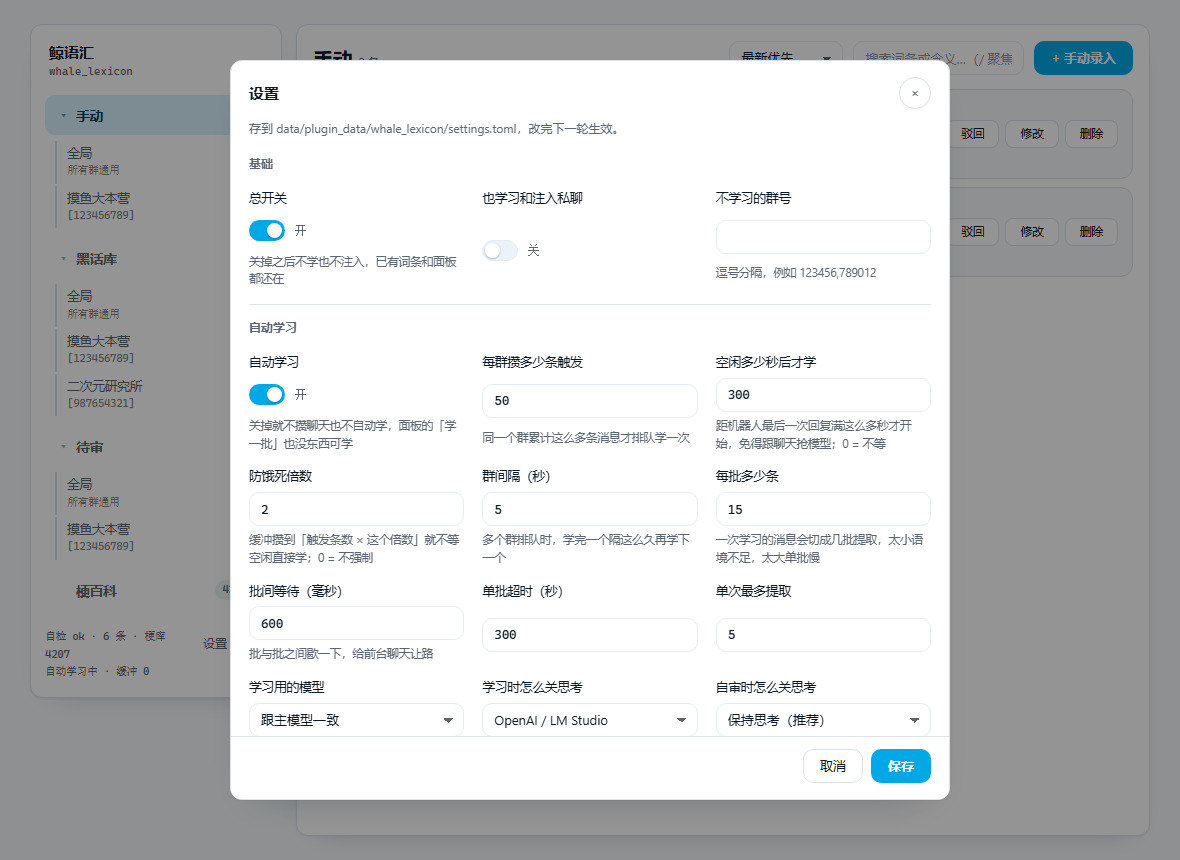
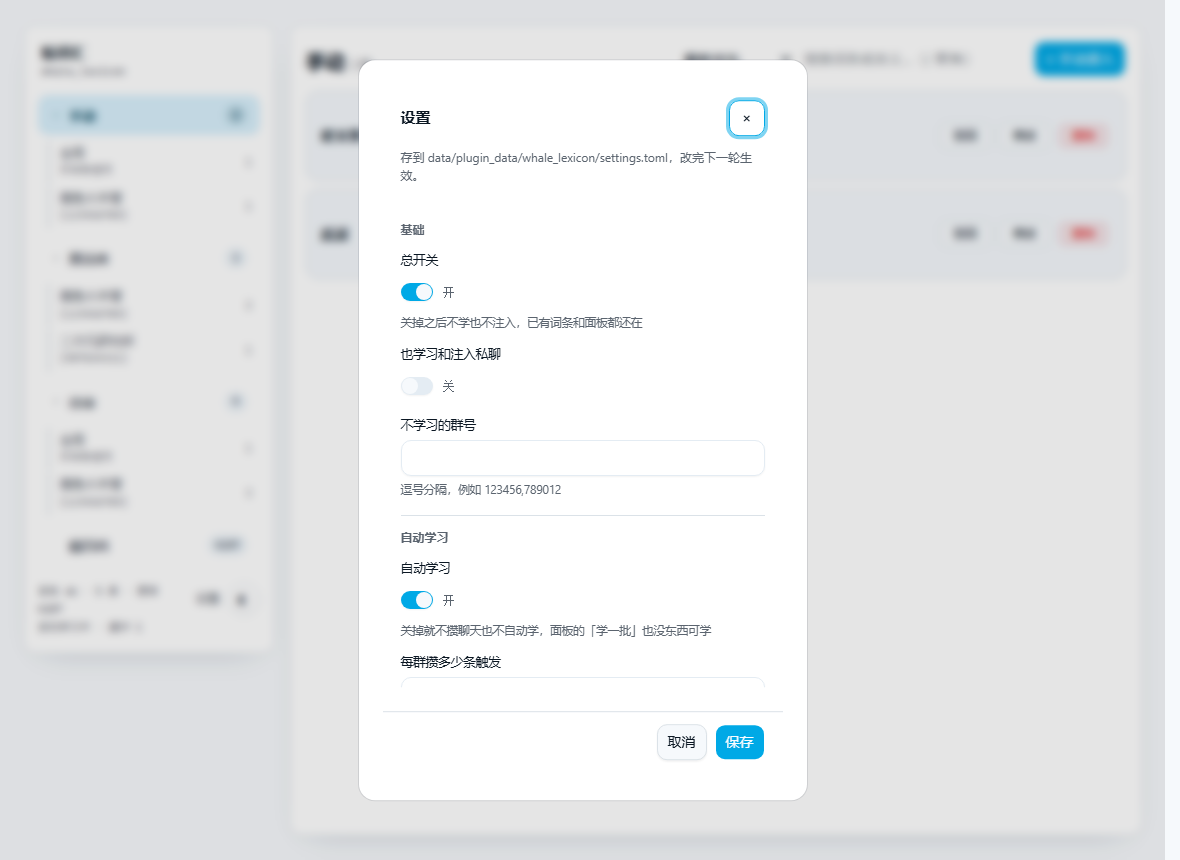
refactor(panel): 面板改用 Basecoat
- 引 /static/basecoat.css + style.css + theme.css，删掉对 legacy.css 的依赖
- 三个弹窗换成原生 <dialog>，焦点陷阱/ESC/遮罩点击由浏览器负责
- 按钮按 Basecoat 变体重排（描边=次要、危险色=删除、主色=确认）
- 输入框/下拉/文本域/开关换成 .input/.select/.textarea/role=switch
- 截图按新样式重拍（演示群号仍是占位值）

diff --git a/pages/index.html b/pages/index.html
@@ -17,7 +17,9 @@
     } catch (error) {}
   })();
 </script>
-<link rel="stylesheet" href="/static/legacy.css">
+<link rel="stylesheet" href="/static/basecoat.css">
+<link rel="stylesheet" href="/static/style.css">
+<link rel="stylesheet" href="/static/theme.css">
 <style>
 /* 布局照 astrbot_plugin_slang 的 pages/yh/index.html：左边一张卡、右边一张卡。
    配色和控件走 /static/style.css 的令牌，跟主面板一致。 */
@@ -175,9 +177,6 @@
 .bulkbar input[type="checkbox"] { width: 14px; height: 14px; margin: 0; accent-color: var(--primary); }
 .bulkbar .spacer { flex: 1; }
 .bulkbar .btn { height: 28px; padding: 0 12px; font-size: 12.5px; }
-.btn-danger { color: var(--destructive); border-color: color-mix(in oklab, var(--destructive) 32%, var(--border)); }
-.btn-danger:hover { border-color: var(--destructive); background: color-mix(in oklab, var(--destructive) 8%, var(--card)); }
-.btn-danger:disabled { color: var(--muted-foreground); border-color: var(--border); background: var(--card); }
 
 /* ---------- 词条 ---------- */
 .entries { display: grid; gap: 8px; }
@@ -246,36 +245,14 @@
 .label-row { display: flex; align-items: baseline; justify-content: space-between; gap: 8px; }
 .counter { font-family: var(--mono); font-size: 10.5px; color: var(--muted-foreground); }
 .counter.over { color: var(--destructive); font-weight: 600; }
-textarea.ctl {
-  width: 100%;
-  min-height: 92px;
-  font: inherit;
-  font-size: 13px;
-  line-height: 1.6;
-  color: var(--foreground);
-  background: var(--card);
-  border: 1px solid var(--input);
-  border-radius: var(--radius-control);
-  padding: 8px 11px;
-  resize: vertical;
-}
-textarea.ctl:focus { outline: none; border-color: var(--ring); box-shadow: 0 0 0 3px color-mix(in oklab, var(--ring) 22%, transparent); }
-.dialog-foot .btn { box-shadow: none; }
 .confirm-text { margin: 0; font-size: 13px; line-height: 1.7; color: var(--foreground); white-space: pre-wrap; }
 
 /* 录入/修改弹窗：作用域下面不要那条分割线 */
-#editMask .dialog-foot { border-top: 0; }
+#editMask .dialog-panel > footer { border-top: 0; }
 
 /* 设置弹窗 */
-.settings-dialog {
-  width: min(720px, 100%);
-  display: flex;
-  flex-direction: column;
-  max-height: 86vh;
-  overflow: hidden;
-}
-.settings-dialog .dialog-body { flex: 1; min-height: 0; overflow: auto; }
-.settings-dialog .dialog-foot { position: static; }
+.settings-dialog { width: min(720px, 100%); }
+.settings-dialog .set-group { padding: 0; }
 .set-group { display: grid; grid-template-columns: repeat(auto-fit, minmax(210px, 1fr)); gap: 14px 18px; }
 .set-group + .set-group { margin-top: 16px; padding-top: 14px; border-top: 1px solid var(--border); }
 .set-title {
@@ -290,7 +267,7 @@ textarea.ctl:focus { outline: none; border-color: var(--ring); box-shadow: 0 0 0
 .set-field > label { font-size: 12.5px; font-weight: 500; }
 .set-field .hint { margin: 0; }
 .set-row { display: flex; align-items: center; gap: 10px; min-height: 34px; }
-#settingsMask .dialog-foot { align-items: center; }
+#settingsMask .dialog-panel > footer { align-items: center; }
 #settingsHint { margin-right: auto; font-size: 12px; color: var(--destructive); }
 
 @media (max-width: 900px) {
@@ -342,7 +319,7 @@ textarea.ctl:focus { outline: none; border-color: var(--ring); box-shadow: 0 0 0
             <option value="count">次数优先</option>
           </select>
           <input type="text" id="search" class="ctl-search" placeholder="搜索词条或含义…（/ 聚焦）" autocomplete="off">
-          <button class="btn btn-primary" type="button" id="addBtn">+ 手动录入</button>
+          <button class="btn" type="button" id="addBtn">+ 手动录入</button>
         </div>
       </div>
 
@@ -350,8 +327,8 @@ textarea.ctl:focus { outline: none; border-color: var(--ring); box-shadow: 0 0 0
         <label><input type="checkbox" id="pickAll"> 全选本页</label>
         <span id="pickInfo">已选 0 条</span>
         <span class="spacer"></span>
-        <button class="btn btn-sm" type="button" id="bulkApprove" disabled>通过所选</button>
-        <button class="btn btn-sm btn-danger" type="button" id="bulkDelete" disabled>删除所选</button>
+        <button class="btn" data-variant="outline" data-size="sm" type="button" id="bulkApprove" disabled>通过所选</button>
+        <button class="btn" data-variant="destructive" data-size="sm" type="button" id="bulkDelete" disabled>删除所选</button>
       </div>
 
       <div class="entries" id="list"></div>
@@ -361,77 +338,83 @@ textarea.ctl:focus { outline: none; border-color: var(--ring); box-shadow: 0 0 0
 </div>
 
 <!-- 录入 / 修改 -->
-<div class="overlay" id="editMask" hidden>
-  <div class="dialog">
-    <div class="dialog-head">
-      <h2 id="editTitle">手动录入</h2>
-      <button class="icon-btn" type="button" data-close aria-label="关闭">×</button>
-    </div>
-    <p class="dialog-sub" id="editSub">录入的词条会直接进「手动」，参与注入。</p>
-    <div class="dialog-body">
+<dialog class="dialog" id="editMask">
+  <div class="dialog-panel">
+    <header>
+      <div class="dialog-title-row">
+        <h2 id="editTitle">手动录入</h2>
+        <button class="btn" data-variant="ghost" data-size="icon" type="button" data-close aria-label="关闭">×</button>
+      </div>
+      <p id="editSub">录入的词条会直接进「手动」，参与注入。</p>
+    </header>
+    <section>
       <div class="form-field">
-        <label for="fName">词条名</label>
-        <input type="text" id="fName" maxlength="32" autocomplete="off" placeholder="例如：梁文锋">
+        <label class="label" for="fName">词条名</label>
+        <input class="input" type="text" id="fName" maxlength="32" autocomplete="off" placeholder="例如：梁文锋">
       </div>
       <div class="form-field">
-        <label for="fKeywords">关键词</label>
-        <input type="text" id="fKeywords" maxlength="300" autocomplete="off" placeholder="触发词，逗号分隔；不填就只用词条名">
+        <label class="label" for="fKeywords">关键词</label>
+        <input class="input" type="text" id="fKeywords" maxlength="300" autocomplete="off" placeholder="触发词，逗号分隔；不填就只用词条名">
       </div>
       <div class="form-field">
         <div class="label-row">
-          <label for="fMeaning">内容</label>
+          <label class="label" for="fMeaning">内容</label>
           <span class="counter" id="fCount">0/200</span>
         </div>
-        <textarea class="ctl" id="fMeaning" placeholder="注入给模型的解释，一句话就够"></textarea>
+        <textarea class="textarea" id="fMeaning" placeholder="注入给模型的解释，一句话就够"></textarea>
       </div>
       <div class="form-field">
-        <label for="fScope">作用域</label>
-        <select id="fScope"></select>
+        <label class="label" for="fScope">作用域</label>
+        <select class="select" id="fScope"></select>
       </div>
       <p class="hint" id="editHint"></p>
-    </div>
-    <div class="dialog-foot">
-      <button class="btn" type="button" data-close>取消</button>
-      <button class="btn btn-primary" type="button" id="editSave">确认</button>
-    </div>
+    </section>
+    <footer>
+      <button class="btn" data-variant="outline" type="button" data-close>取消</button>
+      <button class="btn" type="button" id="editSave">确认</button>
+    </footer>
   </div>
-</div>
+</dialog>
 
 <!-- 二次确认 -->
-<div class="overlay" id="confirmMask" hidden>
-  <div class="dialog" style="width:min(420px,100%)">
-    <div class="dialog-head">
-      <h2 id="confirmTitle">确认</h2>
-      <button class="icon-btn" type="button" data-close aria-label="关闭">×</button>
-    </div>
-    <div class="dialog-body">
+<dialog class="dialog" id="confirmMask" style="width:min(420px,100%)">
+  <div class="dialog-panel">
+    <header>
+      <div class="dialog-title-row">
+        <h2 id="confirmTitle">确认</h2>
+        <button class="btn" data-variant="ghost" data-size="icon" type="button" data-close aria-label="关闭">×</button>
+      </div>
+    </header>
+    <section>
       <p class="confirm-text" id="confirmText"></p>
-    </div>
-    <div class="dialog-foot">
-      <button class="btn" type="button" data-close>取消</button>
-      <button class="btn btn-primary" type="button" id="confirmOk">确定</button>
-    </div>
+    </section>
+    <footer>
+      <button class="btn" data-variant="outline" type="button" data-close>取消</button>
+      <button class="btn" type="button" id="confirmOk">确定</button>
+    </footer>
   </div>
-</div>
+</dialog>
 
 <div class="toast" id="toast" role="status" aria-live="polite"></div>
 
 <!-- 插件设置 -->
-<div class="overlay" id="settingsMask" hidden>
-  <div class="dialog settings-dialog">
-    <div class="dialog-head">
-      <h2>设置</h2>
-      <button class="icon-btn" type="button" data-close aria-label="关闭">×</button>
-    </div>
-    <p class="dialog-sub">存到 data/plugin_data/whale_lexicon/settings.toml，改完下一轮生效。</p>
-    <div class="dialog-body" id="settingsBody"></div>
-    <div class="dialog-foot">
+<dialog class="dialog settings-dialog" id="settingsMask">
+  <div class="dialog-panel">
+    <header>
+      <div class="dialog-title-row">
+        <h2>设置</h2>
+        <button class="btn" data-variant="ghost" data-size="icon" type="button" data-close aria-label="关闭">×</button>
+      </div>
+      <p>存到 data/plugin_data/whale_lexicon/settings.toml，改完下一轮生效。</p>
+    </header>
+    <section id="settingsBody"></section>
+    <footer>
       <span id="settingsHint"></span>
-      <button class="btn" type="button" data-close>取消</button>
-      <button class="btn btn-primary" type="button" id="settingsSave">保存</button>
-    </div>
+      <button class="btn" data-variant="outline" type="button" data-close>取消</button>
+      <button class="btn" type="button" id="settingsSave">保存</button>
+    </footer>
   </div>
-</div>
+</dialog>
 
 <script>
 "use strict";
@@ -508,13 +491,11 @@ async function req(path, body) {
 /* ---------- 弹窗 ---------- */
 
 function openMask(node) {
-  node.hidden = false;
-  requestAnimationFrame(() => node.classList.add("show"));
+  if (node && typeof node.showModal === "function" && !node.open) node.showModal();
 }
 
 function closeMask(node) {
-  node.classList.remove("show");
-  setTimeout(() => { node.hidden = true; }, 160);
+  if (node && typeof node.close === "function" && node.open) node.close();
 }
 
 function showConfirm(title, text, okLabel, onOk) {
@@ -533,10 +514,11 @@ $("confirmOk").addEventListener("click", async () => {
 });
 
 document.querySelectorAll("[data-close]").forEach((node) => {
-  node.addEventListener("click", () => closeMask(node.closest(".overlay")));
+  node.addEventListener("click", () => closeMask(node.closest("dialog")));
 });
 
-document.querySelectorAll(".overlay").forEach((mask) => {
+// 点遮罩关闭：原生 dialog 下，点到 dialog 本身就说明点在了背景上
+document.querySelectorAll("dialog.dialog").forEach((mask) => {
   mask.addEventListener("click", (event) => {
     if (event.target === mask) closeMask(mask);
   });
@@ -661,7 +643,7 @@ function entryHTML(item) {
         <p class="entry-meaning${item.meaning ? "" : " empty"}" title="${esc(item.meaning)}">${esc(item.meaning) || "（没有摘要）"}</p>
         <p class="entry-meta">梗百科 · 只读${tags}</p>
       </div>
-      <div class="entry-ops"><button class="btn" type="button" disabled>只读</button></div>
+      <div class="entry-ops"><button class="btn" data-variant="outline" data-size="sm" type="button" disabled>只读</button></div>
     </article>`;
   }
 
@@ -689,9 +671,9 @@ function entryHTML(item) {
       <p class="entry-meta">${meta}</p>
     </div>
     <div class="entry-ops">
-      <button class="btn${pending ? " on" : ""}" type="button" data-act="approve">${pending ? "审核" : "驳回"}</button>
-      <button class="btn" type="button" data-act="edit">修改</button>
-      <button class="btn" type="button" data-act="del">删除</button>
+      <button class="btn" data-size="sm" data-variant="${pending ? "default" : "outline"}" type="button" data-act="approve">${pending ? "审核" : "驳回"}</button>
+      <button class="btn" data-variant="outline" data-size="sm" type="button" data-act="edit">修改</button>
+      <button class="btn" data-variant="destructive" data-size="sm" type="button" data-act="del">删除</button>
     </div>
   </article>`;
 }
@@ -701,9 +683,9 @@ function renderPager(total, page, size) {
   const pages = Math.max(1, Math.ceil(total / size));
   if (total <= size) { box.hidden = true; return; }
   box.hidden = false;
-  box.innerHTML = `<button class="btn btn-sm" type="button" data-page="${page - 1}" ${page <= 1 ? "disabled" : ""}>上一页</button>
+  box.innerHTML = `<button class="btn" data-variant="outline" data-size="sm" type="button" data-page="${page - 1}" ${page <= 1 ? "disabled" : ""}>上一页</button>
     <span>第 ${page} / ${pages} 页 · 共 ${total} 条</span>
-    <button class="btn btn-sm" type="button" data-page="${page + 1}" ${page >= pages ? "disabled" : ""}>下一页</button>`;
+    <button class="btn" data-variant="outline" data-size="sm" type="button" data-page="${page + 1}" ${page >= pages ? "disabled" : ""}>下一页</button>`;
 }
 
 $("pager").addEventListener("click", (event) => {
@@ -840,8 +822,8 @@ function armDelete(row) {
   if (!ops || ops.dataset.armed) return;
   ops.dataset.armed = "1";
   ops.dataset.backup = ops.innerHTML;
-  ops.innerHTML = `<button class="btn armed" type="button" data-act="confirm-del">确认删除</button>
-    <button class="btn" type="button" data-act="cancel">取消</button>`;
+  ops.innerHTML = `<button class="btn" data-variant="destructive" data-size="sm" type="button" data-act="confirm-del">确认删除</button>
+    <button class="btn" data-variant="outline" data-size="sm" type="button" data-act="cancel">取消</button>`;
   ops.style.gridTemplateColumns = "1fr 1fr";
 }
 
@@ -1027,23 +1009,23 @@ function settingControl(field, value) {
   let read;
   if (field.type === "bool") {
     const box = document.createElement("div");
-    box.className = "switch";
+    box.className = "switch-row";
     const input = document.createElement("input");
     input.type = "checkbox";
+    input.role = "switch";
+    input.className = "input";
     input.id = id;
     input.checked = Boolean(value);
-    const track = document.createElement("label");
-    track.className = "track";
-    track.htmlFor = id;
     const state = document.createElement("span");
     state.className = "state";
     state.textContent = input.checked ? "开" : "关";
     input.addEventListener("change", () => { state.textContent = input.checked ? "开" : "关"; });
-    box.append(input, track, state);
+    box.append(input, state);
     wrap.append(label, box);
     read = () => input.checked;
   } else if (field.type === "options" && Array.isArray(field.options) && field.options.length) {
     const select = document.createElement("select");
+    select.className = "select";
     select.id = id;
     const labels = Array.isArray(field.labels) ? field.labels : [];
     const current = value === null || value === undefined ? "" : String(value);
@@ -1067,13 +1049,14 @@ function settingControl(field, value) {
   } else if (field.multiline) {
     const area = document.createElement("textarea");
     area.id = id;
-    area.className = "ctl";
+    area.className = "textarea";
     area.rows = field.rows || 3;
     area.value = value === null || value === undefined ? "" : String(value);
     wrap.append(label, area);
     read = () => area.value;
   } else {
     const input = document.createElement("input");
+    input.className = "input";
     input.id = id;
     input.type = field.type === "number" ? "number" : "text";
     if (field.min !== undefined) input.min = field.min;
@@ -1195,12 +1178,12 @@ function isTyping(node) {
 
 document.addEventListener("keydown", (event) => {
   if (event.key === "/" && !event.ctrlKey && !event.metaKey && !event.altKey) {
-    if (isTyping(event.target) || document.querySelector(".overlay:not([hidden])")) return;
+    if (isTyping(event.target) || document.querySelector("dialog[open]")) return;
     event.preventDefault();
     $("search").focus();
   }
   if (event.key === "Escape") {
-    document.querySelectorAll(".overlay:not([hidden])").forEach(closeMask);
+    document.querySelectorAll("dialog[open]").forEach(closeMask);
   }
 });
 
